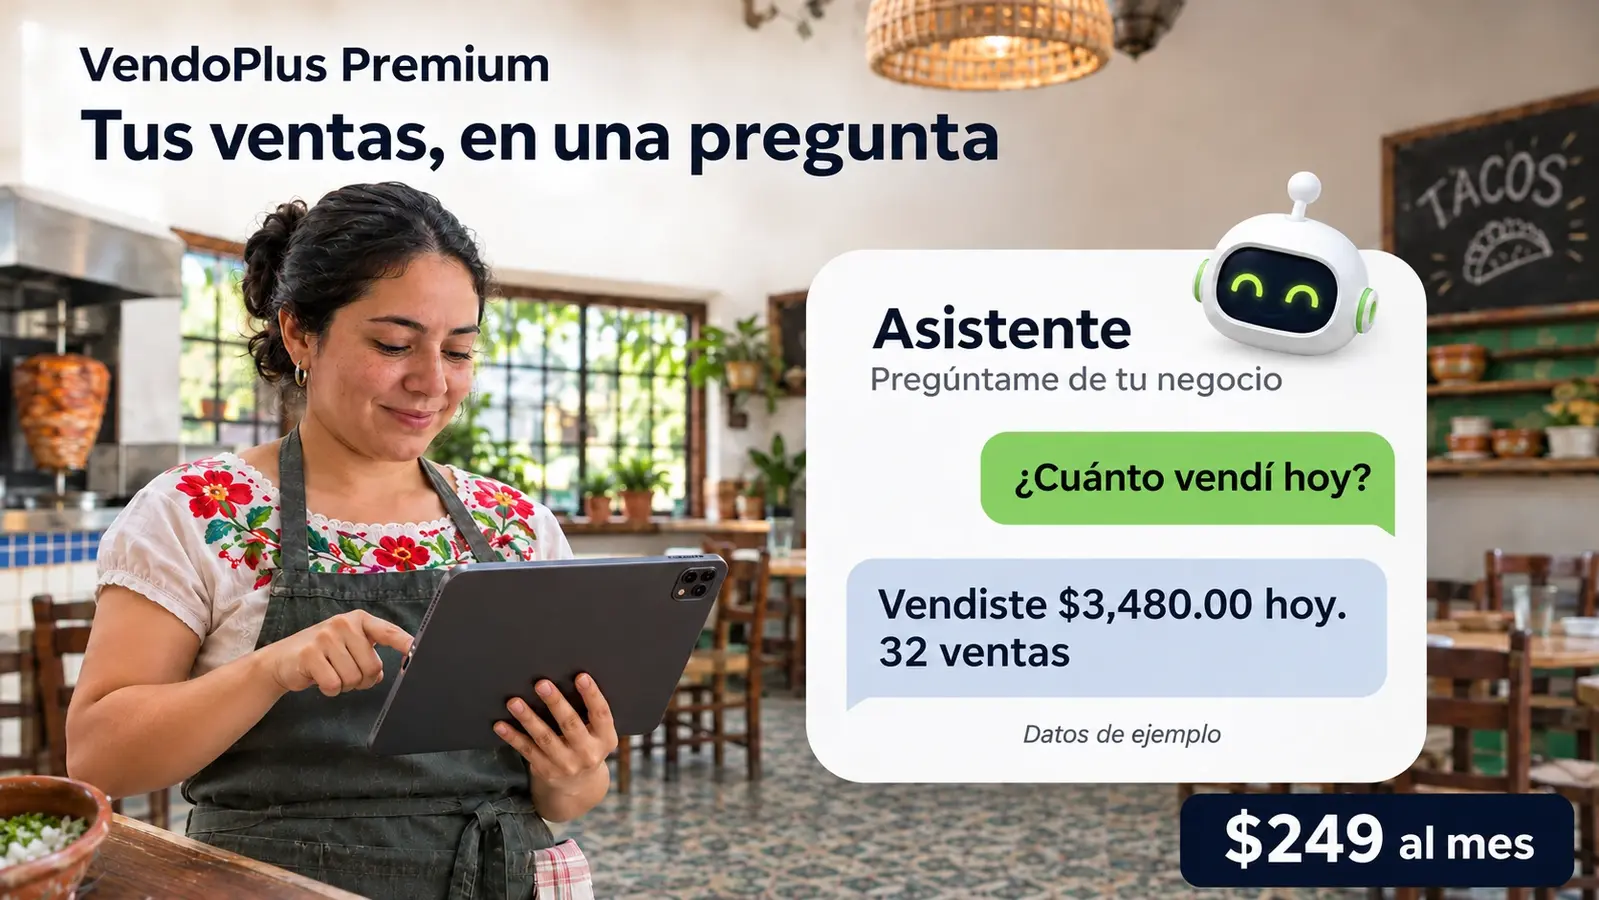
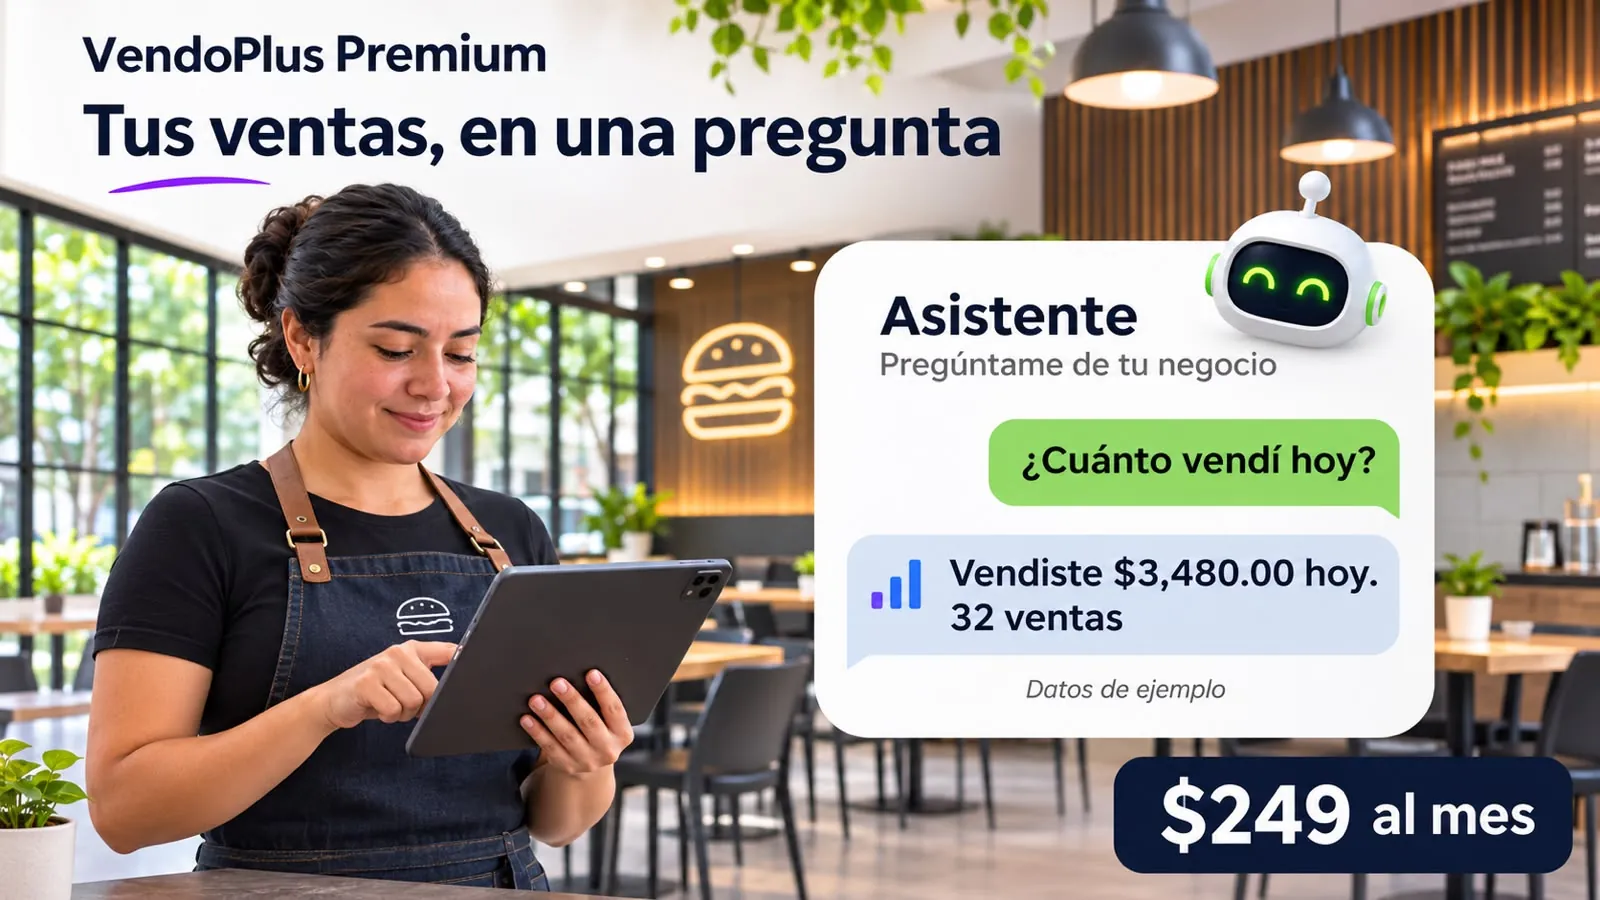
Asistente: nuevas imágenes del anuncio y portada al tocar el robot sin Premium (solo se cierra con ×)
Claude-Session: https://claude.ai/code/session_013WywtSNyEEMeCbo9AvawQS

diff --git a/vendo-premium.js b/vendo-premium.js
@@ -857,6 +857,9 @@
     var P = {
     menu: { h: im['menu-h'], v: im['menu-v'], alt: 'VendoPlus Premium: tu menú en internet, recibe pedidos desde ahí',
             titulo: 'El Menú Digital viene incluido en Premium', sub: 'Tus clientes ven tu menú y te mandan su pedido.' },
+    chat: { h: im['asistente-h'], v: im['asistente-v'], soloX: true,
+            alt: 'VendoPlus Premium: tus ventas, en una pregunta, con el Asistente',
+            titulo: 'El Asistente viene incluido en Premium', sub: 'Pregúntale cuánto vendiste, cuánto ganaste o qué se está agotando.' },
     stripe: { h: im['stripe-h'], v: im['stripe-v'], abrirCon: null,
             alt: 'VendoPlus Premium: cobra sin contacto con NFC y deja que tus clientes paguen con tarjeta en el menú digital',
             titulo: 'Cobros con tarjeta con Stripe vienen en Premium', sub: 'Cobra con NFC y recibe pagos con tarjeta en tu menú digital.' }
@@ -870,7 +873,7 @@
     st.textContent = [
       '.vp-pt{position:fixed;inset:0;z-index:9000;display:flex;align-items:center;justify-content:center;padding:16px;',
       'background:rgba(13,20,40,.62);-webkit-backdrop-filter:blur(2px);backdrop-filter:blur(2px);animation:vp-pt-in .2s ease both;}',
-      '.vp-pt-card{position:relative;width:min(100%, calc((100dvh - 32px - 78px) * 16 / 9), 1400px);background:#fff;border-radius:22px;overflow:hidden;',
+      '.vp-pt-card{position:relative;width:min(100%, 1400px);background:#fff;border-radius:22px;overflow:hidden;',
       'box-shadow:0 24px 60px rgba(10,16,34,.35);animation:vp-pt-up .28s cubic-bezier(.22,1,.36,1) both;}',
       '.vp-pt-img{display:block;width:100%;padding:0;border:0;background:#F3F5F9;cursor:pointer;line-height:0;}',
       '.vp-pt-img img{display:block;width:100%;height:auto;aspect-ratio:16/9;object-fit:cover;-webkit-user-select:none;user-select:none;}',
@@ -886,7 +889,8 @@
       '.vp-pt-x svg{width:17px;height:17px;}',
       '@media (max-width:699px){',
       '.vp-pt{padding:12px;}',
-      '.vp-pt-card{width:min(100%, calc((100dvh - 24px - 74px) * 2 / 3));background:transparent;box-shadow:none;border-radius:20px;overflow:visible;}',
+      '.vp-pt-card{background:transparent;box-shadow:none;border-radius:20px;overflow:visible;}',
+      '.vp-pt-x{top:10px;right:10px;}',
       '.vp-pt-img{border-radius:20px;overflow:hidden;}',
       '.vp-pt-img img{aspect-ratio:2/3;}',
       '.vp-pt-txt{display:none;}',
@@ -899,43 +903,79 @@
     ].join('');
     document.head.appendChild(st);
   }
+  try { window.addEventListener('resize', ajustarPortada); if (window.visualViewport) visualViewport.addEventListener('resize', ajustarPortada); } catch (e) {}
   function cerrarPortada() {
     var el = document.getElementById('vp-portada');
     if (el) el.remove();
     document.removeEventListener('keydown', teclaPortada, true);
   }
   function teclaPortada(e) { if (e.key === 'Escape') { e.preventDefault(); e.stopPropagation(); cerrarPortada(); } }
+  /* Tamaño de la ventana: se mide la pantalla visible (no hay zoom aquí) y
+     la imagen crece hasta donde quepa completa con su botón abajo. */
+  function ajustarPortada() {
+    var el = document.getElementById('vp-portada');
+    if (!el) return;
+    var card = el.querySelector('.vp-pt-card');
+    var cel = window.matchMedia && matchMedia('(max-width:699px)').matches;
+    var vv = window.visualViewport;
+    var vh = (vv && vv.height) || window.innerHeight;
+    var vw = (vv && vv.width) || window.innerWidth;
+    var pad = cel ? 12 : 16;
+    var ratio = cel ? 2 / 3 : 16 / 9;
+    var foot = card.querySelector('.vp-pt-foot');
+    for (var i = 0; i < 2; i++) {
+      var fh = foot ? foot.getBoundingClientRect().height : 0;
+      var w = Math.min(vw - 2 * pad, (vh - 2 * pad - fh) * ratio, 1400);
+      card.style.width = Math.max(200, Math.floor(w)) + 'px';
+    }
+  }
   function portada(clave) {
     /* Igual que Comandas: una pantalla normal de la app (encabezado y menú
        de abajo visibles), con la imagen ajustada y "Activar Premium" */
     if (clave === 'menu') { irMenuPortada(); return; }
-    try { if (window.VPComandas && VPComandas.portada && VPComandas.portada(clave)) return; } catch (e) {}
     var p = datosPortada(clave);
     if (!p || !(p.h || p.v)) { abrir(clave); return; }
+    if (!p.soloX) {
+      try { if (window.VPComandas && VPComandas.portada && VPComandas.portada(clave)) return; } catch (e) {}
+    }
+    if (document.getElementById('vp-portada')) return;
     cssPortada();
-    cerrarPortada();
-    var el = document.createElement('div');
-    el.id = 'vp-portada';
-    el.className = 'vp-pt';
-    el.setAttribute('role', 'dialog');
-    el.setAttribute('aria-modal', 'true');
-    el.innerHTML =
-      '<div class="vp-pt-card">' +
-        '<button type="button" class="vp-pt-x" aria-label="Cerrar"><svg viewBox="0 0 24 24" fill="none" stroke="currentColor" stroke-width="2.6" stroke-linecap="round"><path d="M6 6l12 12M18 6L6 18"/></svg></button>' +
-        '<button type="button" class="vp-pt-img vp-pt-go" aria-label="Ver Premium"><picture>' +
-          (p.v ? '<source media="(max-width:699px)" srcset="' + esc(p.v) + '">' : '') +
-          '<img src="' + esc(p.h || p.v) + '" alt="' + esc(p.alt || '') + '" decoding="async" draggable="false">' +
-        '</picture></button>' +
-        '<div class="vp-pt-foot"><span class="vp-pt-txt"><b>' + esc(p.titulo) + '</b><small>' + esc(p.sub) + '</small></span>' +
-        '<button type="button" class="vp-pt-btn vp-pt-go">Activar Premium</button></div>' +
-      '</div>';
-    document.body.appendChild(el);
-    el.addEventListener('click', function (e) {
-      if (e.target === el || e.target.closest('.vp-pt-x')) { cerrarPortada(); return; }
-      if (e.target.closest('.vp-pt-go')) { cerrarPortada(); abrir('abrirCon' in p ? p.abrirCon : clave); }
-    });
-    document.addEventListener('keydown', teclaPortada, true);
+    /* Se espera a que la imagen esté lista: así aparece completa de una vez */
+    var cel = window.matchMedia && matchMedia('(max-width:699px)').matches;
+    var src = (cel ? (p.v || p.h) : (p.h || p.v));
+    var listo = false;
+    var mostrar = function () {
+      if (listo) return; listo = true;
+      cerrarPortada();
+      var el = document.createElement('div');
+      el.id = 'vp-portada';
+      el.className = 'vp-pt';
+      el.setAttribute('role', 'dialog');
+      el.setAttribute('aria-modal', 'true');
+      el.innerHTML =
+        '<div class="vp-pt-card">' +
+          '<button type="button" class="vp-pt-x" aria-label="Cerrar"><svg viewBox="0 0 24 24" fill="none" stroke="currentColor" stroke-width="2.6" stroke-linecap="round"><path d="M6 6l12 12M18 6L6 18"/></svg></button>' +
+          '<button type="button" class="vp-pt-img vp-pt-go" aria-label="Ver Premium"><picture>' +
+            (p.v ? '<source media="(max-width:699px)" srcset="' + esc(p.v) + '">' : '') +
+            '<img src="' + esc(p.h || p.v) + '" alt="' + esc(p.alt || '') + '" decoding="sync" draggable="false">' +
+          '</picture></button>' +
+          '<div class="vp-pt-foot"><span class="vp-pt-txt"><b>' + esc(p.titulo) + '</b><small>' + esc(p.sub) + '</small></span>' +
+          '<button type="button" class="vp-pt-btn vp-pt-go">Activar Premium</button></div>' +
+        '</div>';
+      document.body.appendChild(el);
+      ajustarPortada();
+      el.addEventListener('click', function (e) {
+        if (e.target.closest('.vp-pt-x') || (!p.soloX && e.target === el)) { cerrarPortada(); return; }
+        if (e.target.closest('.vp-pt-go')) { cerrarPortada(); abrir('abrirCon' in p ? p.abrirCon : clave); }
+      });
+      if (!p.soloX) document.addEventListener('keydown', teclaPortada, true);
+    };
+    var im = new Image();
+    im.src = src;
+    if (im.decode) im.decode().then(mostrar, mostrar); else { im.onload = mostrar; im.onerror = mostrar; }
+    setTimeout(mostrar, 1500);
   }
+
 
   /* Sin Premium, la sección Menú Digital es directamente la portada (sin ×):
      no se puede configurar ni activar. */
@@ -1002,13 +1042,13 @@
 
     var _abrir = M.abrir;
     M.abrir = function () {
-      if (!activo()) { abrir('chat'); return; }
+      if (!activo()) { portada('chat'); return; }
       return _abrir.apply(this, arguments);
     };
     var _preg = M.preguntar;
     if (typeof _preg === 'function') {
       M.preguntar = function () {
-        if (!activo()) { abrir('chat'); return; }
+        if (!activo()) { portada('chat'); return; }
         return _preg.apply(this, arguments);
       };
     }

diff --git a/index.html b/index.html
@@ -38,8 +38,8 @@ window.VP_IMGS = [
   'img/bolsa-pedido.webp?v=1',
   'img/fundador.jpg?v=1',
   'img/mercadopago.webp?v=1',
-  'img/promo-asistente-h.webp?v=1',
-  'img/promo-asistente-v.webp?v=1',
+  'img/promo-asistente-h.webp?v=2',
+  'img/promo-asistente-v.webp?v=2',
   'img/promo-menu-h.webp?v=2',
   'img/promo-menu-v.webp?v=2',
   'img/promo-stripe-h.webp?v=1',
@@ -29869,15 +29869,15 @@ function cartSanitize(){
    instante (sin esperar descargas). La lista de anuncios está en
    vendo-premium.js (PROMOS). v = vertical (celular), h = horizontal (PC). */
 window.VP_PROMOS_IMG = {
-  'asistente-v': 'img/promo-asistente-v.webp?v=1',
-  'asistente-h': 'img/promo-asistente-h.webp?v=1',
+  'asistente-v': 'img/promo-asistente-v.webp?v=2',
+  'asistente-h': 'img/promo-asistente-h.webp?v=2',
   'menu-v': 'img/promo-menu-v.webp?v=2',
   'menu-h': 'img/promo-menu-h.webp?v=2',
   'stripe-v': 'img/promo-stripe-v.webp?v=1',
   'stripe-h': 'img/promo-stripe-h.webp?v=1'
 };
 </script>
-<script src="vendo-premium.js?v=20261125h"></script>
+<script src="vendo-premium.js?v=20261125i"></script>
 <script src="vendo-apps.js?v=20261125a"></script>
 
 <style id="vp-fotos-cuadradas">

diff --git a/sw.js b/sw.js
@@ -26,8 +26,8 @@ const BASE = ['./', './vendor/supabase-2.119.0.js',
   './img/bolsa-pedido.webp?v=1',
   './img/fundador.jpg?v=1',
   './img/mercadopago.webp?v=1',
-  './img/promo-asistente-h.webp?v=1',
-  './img/promo-asistente-v.webp?v=1',
+  './img/promo-asistente-h.webp?v=2',
+  './img/promo-asistente-v.webp?v=2',
   './img/promo-menu-h.webp?v=2',
   './img/promo-menu-v.webp?v=2',
   './img/promo-stripe-h.webp?v=1',
